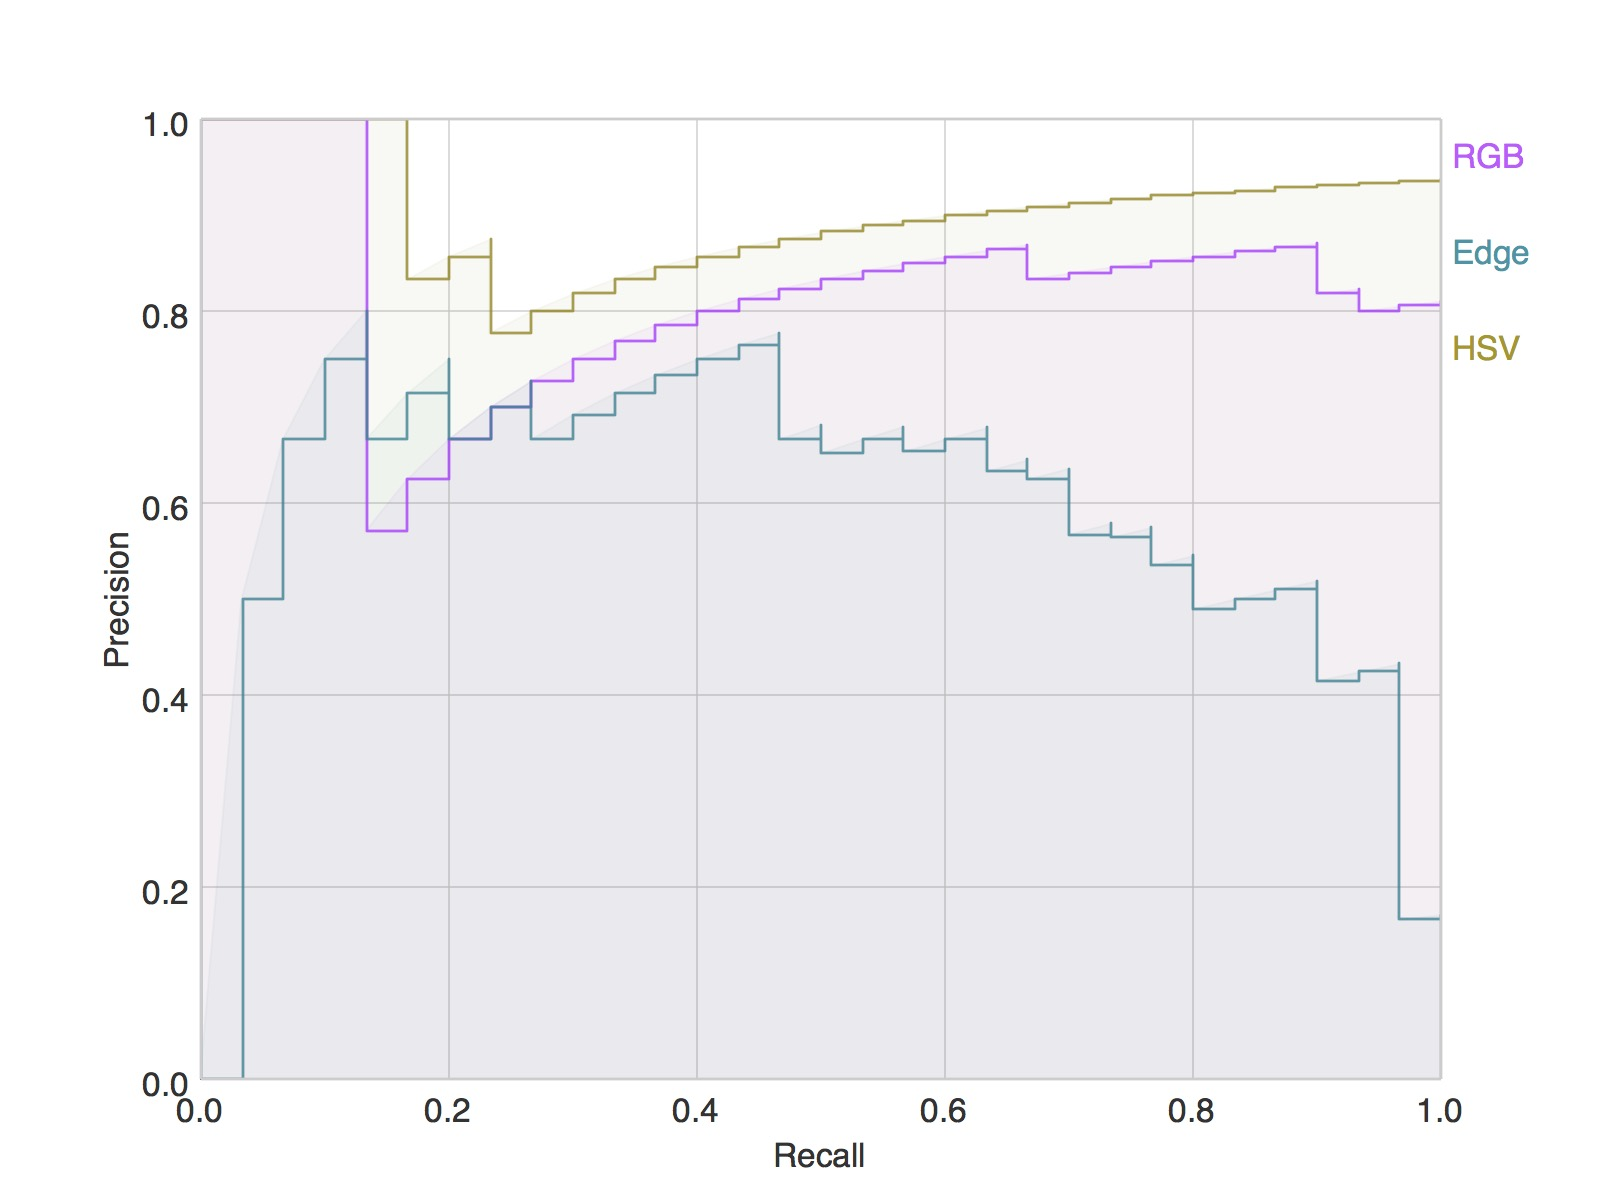
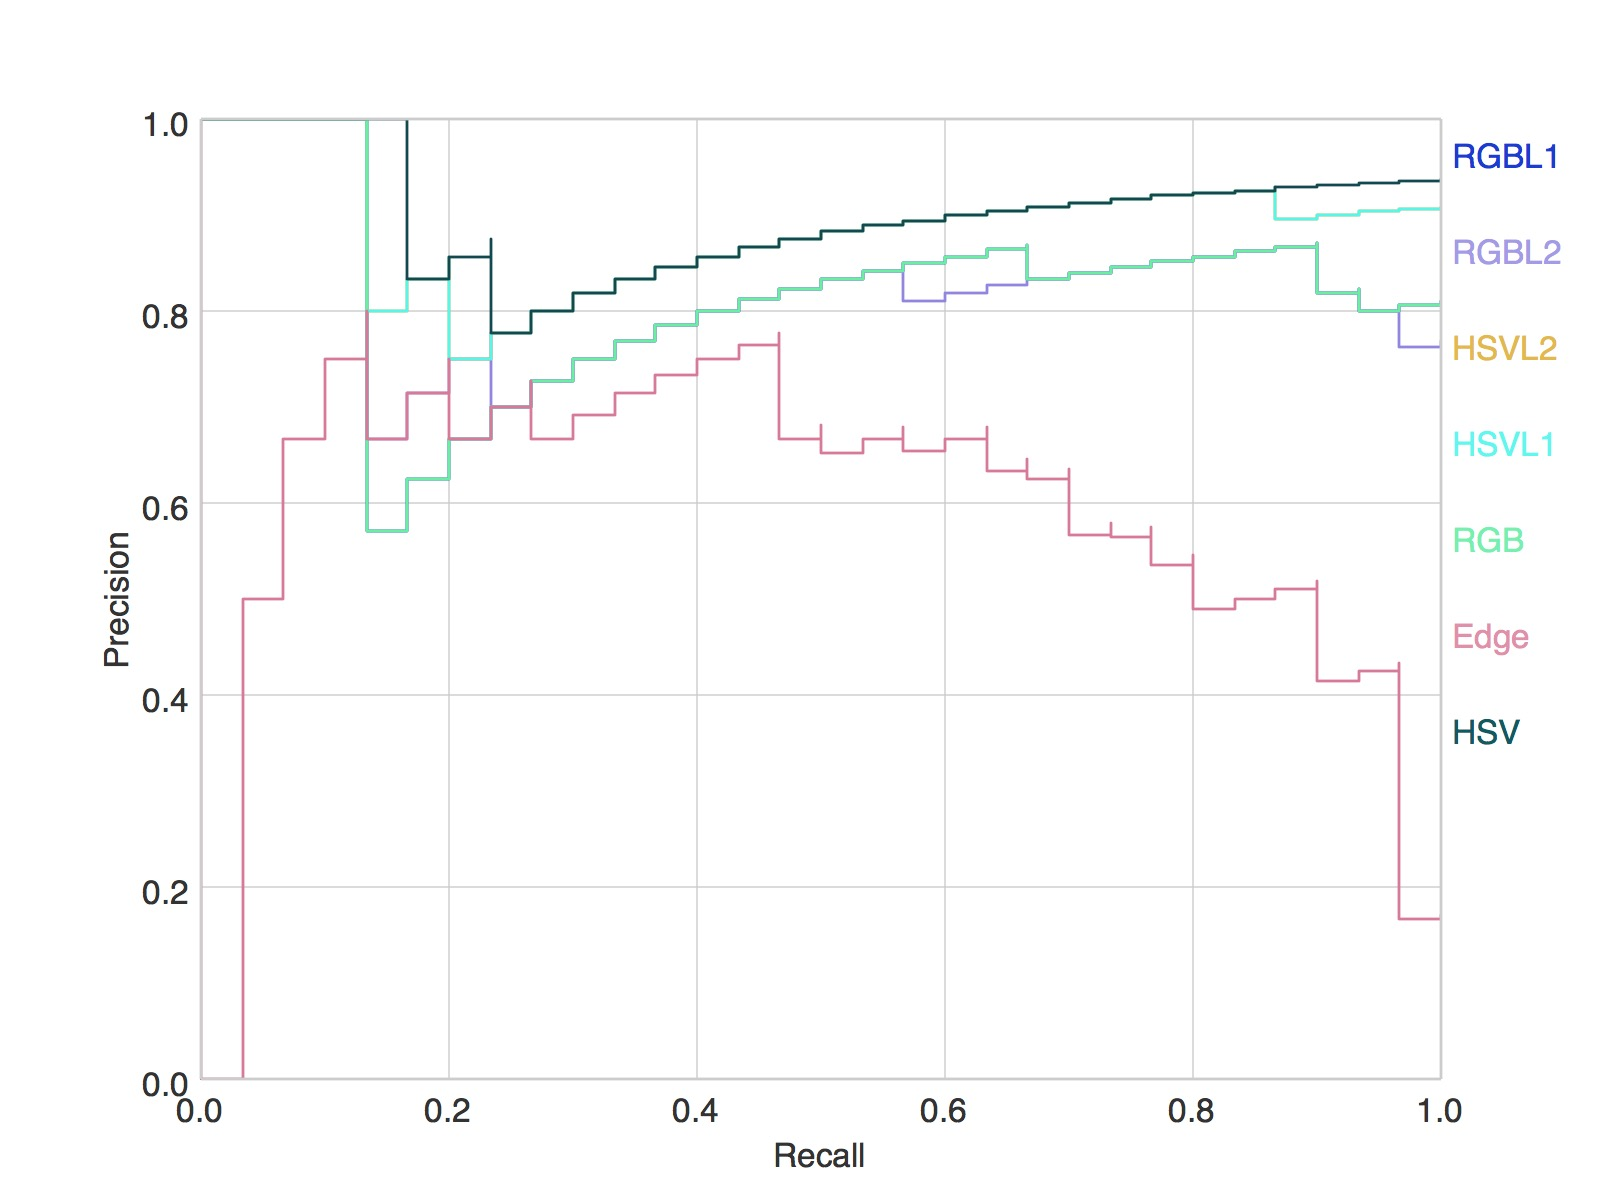
update benchmark

diff --git a/Shot-Change-Detect/detector.py b/Shot-Change-Detect/detector.py
@@ -208,6 +208,18 @@ class ContentBased(BaseDetector):
             if i in temp:
                 cv2.imwrite(output+'/'+'keyframe_%d_%d.jpg'%(temp[i], i), f)
 
+class HSV1(ContentBased):
+    def __init__(self, directory, bin_shape=(8,4,4), img_type='video', scale=None):
+        super(HSV2, self).__init__(directory, bin_shape, img_type, scale)
+    def _dist(self, x, y):
+        return np.mean(np.abs(x-y))
+
+class HSV2(ContentBased):
+    def __init__(self, directory, bin_shape=(8,4,4), img_type='video', scale=None):
+        super(HSV2, self).__init__(directory, bin_shape, img_type, scale)
+    def _dist(self, x, y):
+        return np.mean(np.square(x-y))
+
 class RGBBased(ContentBased):
     def __init__(self, directory, bin_shape=(4,8,7), img_type='video', scale=None):
         super(RGBBased, self).__init__(directory, bin_shape, img_type, scale)
@@ -249,3 +261,14 @@ class RGBBased(ContentBased):
         self._Diff[0] = 0 ## first frame -> no shot change
         thread_queue = []
         thread_results = dict()
+
+class RGB1(RGBBased):
+    def __init__(self, directory, bin_shape=(4,8,7), img_type='video', scale=None):
+        super(RGB1, self).__init__(directory, bin_shape, img_type, scale)
+    def _dist(self, x, y):
+        return np.mean(np.abs(x-y))
+class RGB2(RGBBased):
+    def __init__(self, directory, bin_shape=(4,8,7), img_type='video', scale=None):
+        super(RGB2, self).__init__(directory, bin_shape, img_type, scale)
+    def _dist(self, x, y):
+        return np.mean(np.square(x-y))

diff --git a/Shot-Change-Detect/main.py b/Shot-Change-Detect/main.py
@@ -44,7 +44,15 @@ if __name__ == '__main__':
     else:
         ground_truth = benchmark.gt_parser(args.ground_truth, args.benchmark_range)
         if args.method=='all':
-            methods = {'Edge':SCD, 'HSV':detector.ContentBased(directory = args.path, img_type=args.read_type, scale=args.scale), 'RGB':detector.RGBBased(directory = args.path, img_type=args.read_type, scale=args.scale)}
+            methods = {
+                    'Edge':SCD,
+                    'HSV':detector.ContentBased(directory = args.path, img_type=args.read_type, scale=args.scale),
+                    'RGB':detector.RGBBased(directory = args.path, img_type=args.read_type, scale=args.scale),
+                    'HSVL2':detector.HSV2(directory = args.path, img_type=args.read_type, scale=args.scale),
+                    'HSVL1':detector.HSV2(directory = args.path, img_type=args.read_type, scale=args.scale),
+                    'RGBL1':detector.RGB1(directory = args.path, img_type=args.read_type, scale=args.scale),
+                    'RGBL2':detector.RGB2(directory = args.path, img_type=args.read_type, scale=args.scale),
+                    }
             benchmarker = benchmark.benchmark_plot_all(methods, ground_truth, args.min_length, SCD.get_frame_num())
             benchmarker.run()
         else:

diff --git a/Shot-Change-Detect/benchmark.py b/Shot-Change-Detect/benchmark.py
@@ -36,15 +36,14 @@ class benchmark_plot_all(object):
         import matplotlib.pyplot as plt
         import seaborn as sns
         sns.set_style('whitegrid')
-        self.scores = [ (m, self.methods[m].get_score()) for m in self.methods ]
+        self.scores = [ (self.methods[m].get_score(), m) for m in self.methods ]
         fig, ax = plt.subplots(dpi=100)
         colors = np.random.choice(256**3, len(self.scores))
         for c, result in enumerate(self.scores):
             color = '#{0:06X}'.format(colors[c])
-            name, score = result
+            score, name = result
             precision, recall, threshold = precision_recall_curve(self.truth, score)
-            ax.step(recall, precision, color=color, alpha=0.8)
-            ax.fill_between(recall, precision, alpha=0.05, color=color)
+            ax.step(recall, precision, color=color)
             ax.text(1.01, 0.95-c*0.1, str(name), fontsize=12, color=color)
         ax.set_xlabel('Recall')
         ax.set_ylabel('Precision')
